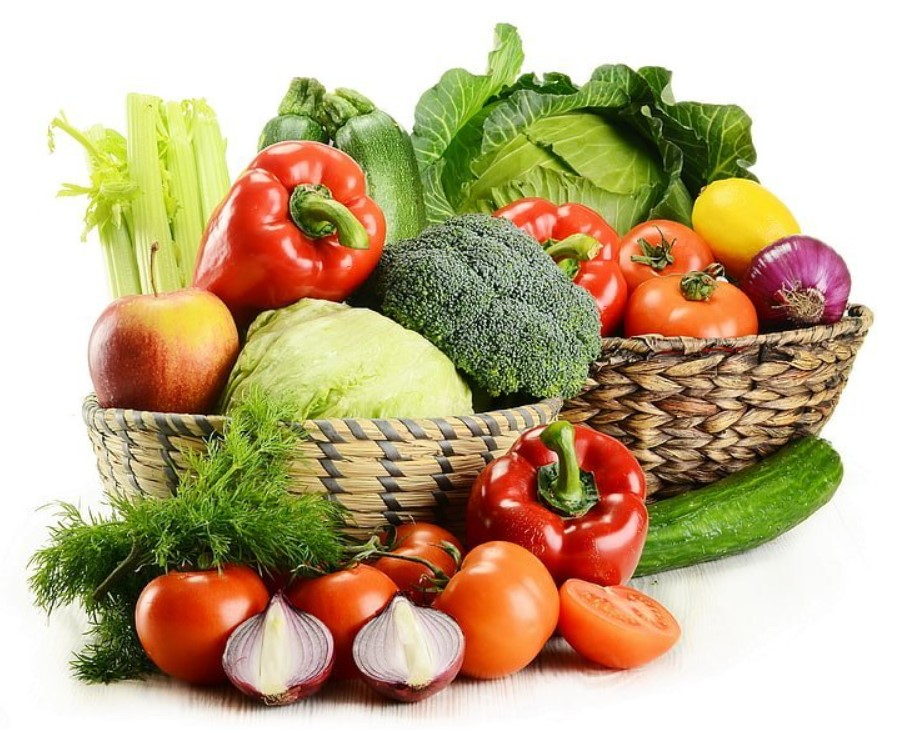
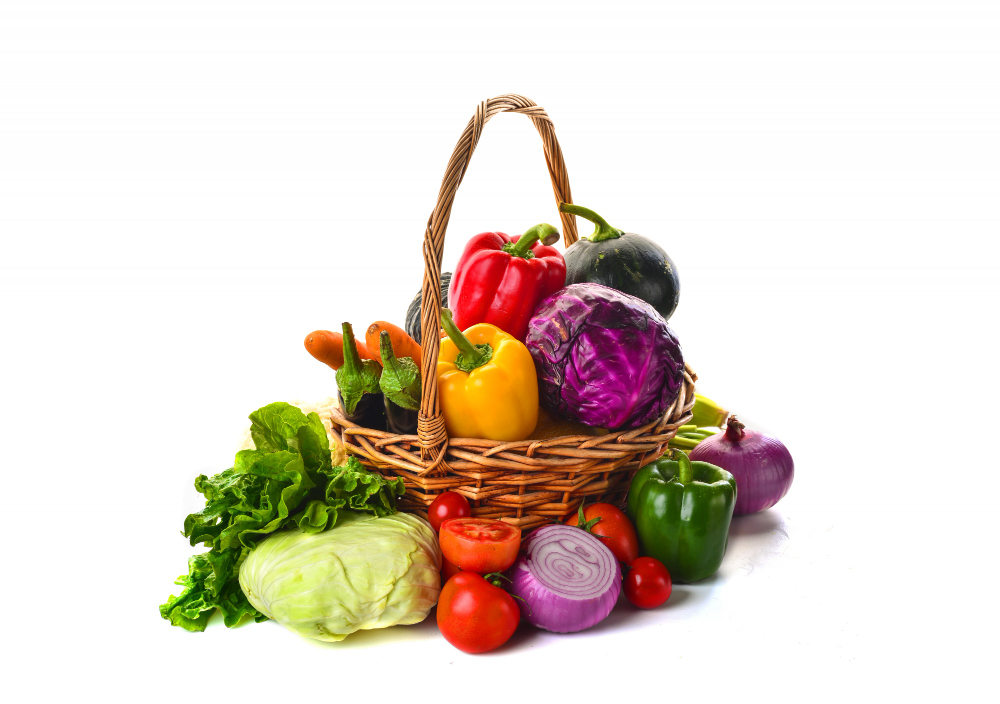
added content+4

diff --git a/src/pages/Exports.tsx b/src/pages/Exports.tsx
@@ -2,7 +2,7 @@
 import { useNavigate } from "react-router-dom";
 
 // Image Imports (Consider converting to WebP for performance)
-import img1 from "../assets/fruit.jpg";
+import img1 from "../assets/fruit.png";
 import img2 from "../assets/vegetable.jpg";
 import img3 from "../assets/spices.jpg";
 import img4 from "../assets/tea.jpg";
